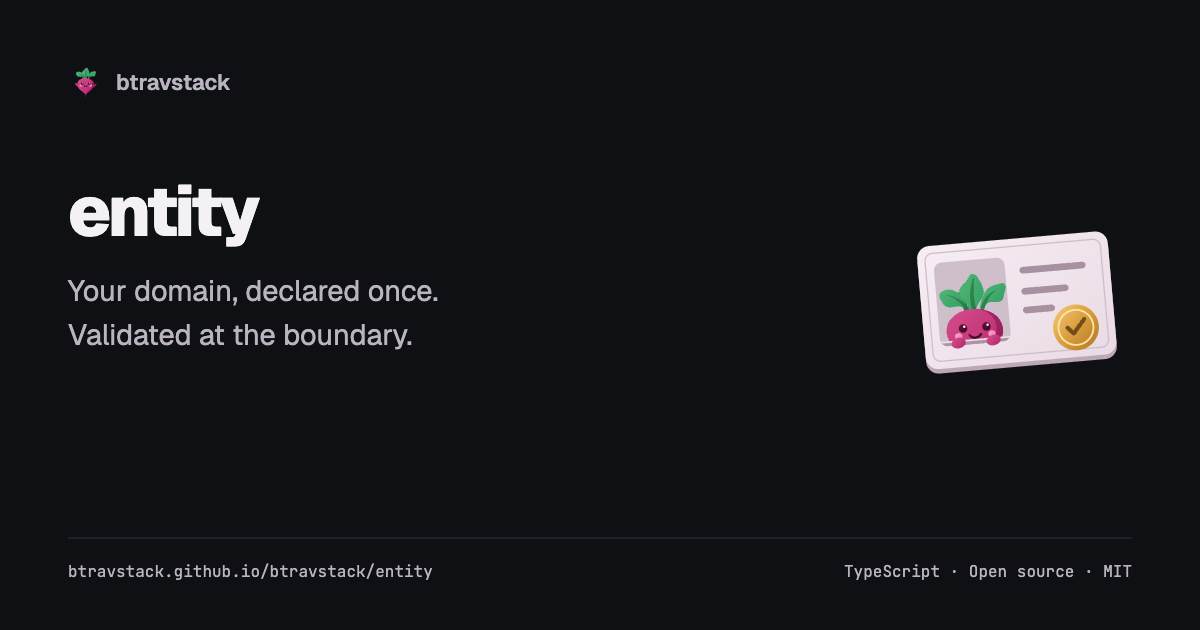
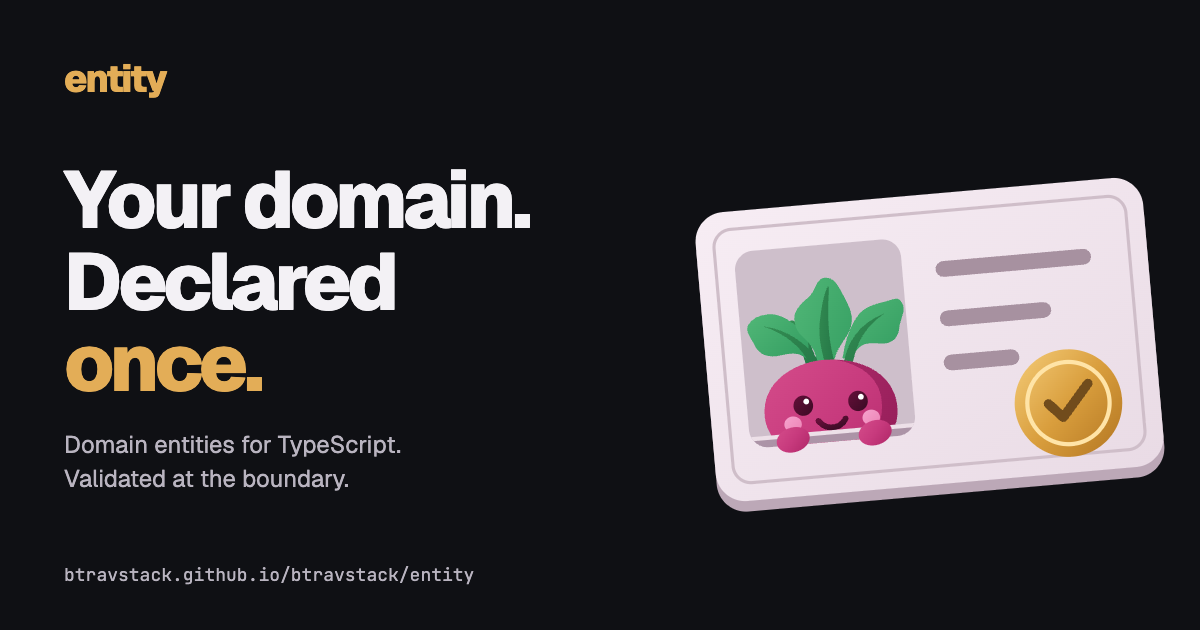
docs: refresh framework and package social previews

diff --git a/docs/branding/social-card.html b/docs/branding/social-card.html
@@ -5,35 +5,75 @@
   <title>btravstack brand card</title>
   <link rel="stylesheet" href="../node_modules/@btravstack/theme/dist/fonts.css" />
   <style>
+    /* Hallmark · component: social card · theme: Beetroot Stack
+     * Static artwork; interactive states do not apply.
+     * Pre-emit critique: P5 H5 E4 S5 R5 V4
+     */
     :root { --paper:#0f1014; --ink:#f3f1f5; --muted:#b9b4c0; --rule:#323039; --accent:#e875ab; --display:'Geist',sans-serif; --mono:'JetBrains Mono',monospace; }
     * { box-sizing:border-box; }
     body { margin:0; width:1200px; height:630px; background:var(--paper); color:var(--ink); font-family:var(--display); }
-    main { position:relative; height:100%; padding:64px 68px; }
-    .brand { display:flex; align-items:center; gap:12px; color:var(--muted); font-size:22px; font-weight:600; }
-    .brand img { width:36px; height:36px; }
-    h1 { max-width:820px; margin:74px 0 20px; font-size:70px; font-weight:800; letter-spacing:-3px; line-height:1.07; }
-    p { max-width:690px; margin:0; font-size:29px; line-height:1.5; color:var(--muted); }
-    .mark { position:absolute; width:230px; height:230px; right:68px; top:177px; }
-    footer { position:absolute; bottom:48px; left:68px; right:68px; border-top:1px solid var(--rule); padding-top:22px; display:flex; justify-content:space-between; font:16px var(--mono); color:var(--muted); }
+    main { position:relative; height:100%; }
+    p { margin:0; color:var(--muted); }
+    .website-card { padding:54px 64px; overflow:hidden; }
+    .website-wordmark { position:relative; z-index:1; font-size:38px; font-weight:800; letter-spacing:-1.8px; }
+    .website-wordmark span { color:var(--accent); }
+    .website-card h1 { position:relative; z-index:1; margin:56px 0 23px; max-width:700px; font-size:88px; font-weight:800; line-height:1.02; letter-spacing:-4.4px; }
+    .website-card h1 span { color:var(--accent); }
+    .website-card p { position:relative; z-index:1; font-size:24px; line-height:1.45; }
+    .website-mascot { position:absolute; width:610px; height:610px; top:10px; right:-48px; }
+    .website-address { position:absolute; left:64px; bottom:44px; font:18px var(--mono); color:var(--muted); }
+    :root { --unthrown:#65c9bd; --entity:#e3ad57; --di:#80aff1; --temporal-contract:#a1aaff; --amqp-contract:#ff944d; --tools:#92bad1; --theme:#e875ab; }
+    .project-card h1 { font-size:80px; letter-spacing:-4px; max-width:650px; }
+    .project-card .website-wordmark { color:var(--project-accent, var(--accent)); }
+    .project-card h1 span { color:var(--project-accent, var(--accent)); }
+    .project-card .project-mascot { width:540px; height:540px; top:50px; right:0; }
+    .project-card p { max-width:650px; }
+    .unthrown { --project-accent:var(--unthrown); }
+    .entity { --project-accent:var(--entity); }
+    .di { --project-accent:var(--di); }
+    .temporal-contract { --project-accent:var(--temporal-contract); }
+    .amqp-contract { --project-accent:var(--amqp-contract); }
+    .tools { --project-accent:var(--tools); }
+    .theme { --project-accent:var(--theme); }
   </style>
-  <main>
-    <div class="brand"><img src="../public/brand-dark.svg" alt="" />btravstack</div>
-    <h1></h1>
-    <p></p>
-    <img class="mark" alt="" />
-    <footer><span class="url"></span><span>TypeScript · Open source · MIT</span></footer>
-  </main>
+  <template id="website-card">
+    <div class="website-wordmark"><span>btrav</span>stack</div>
+    <h1>A backend<br />that fits<br /><span>together.</span></h1>
+    <p>A TypeScript framework.<br />Independent libraries. One coherent stack.</p>
+    <img
+      class="website-mascot"
+      src="../public/logo.png"
+      alt="The smiling beetroot mascot sitting on three teal layers"
+    />
+    <div class="website-address">btravstack.github.io</div>
+  </template>
+  <main></main>
   <script>
     const cards = {
-      framework: ['btravstack', 'Your application, composed.<br>Your process, taken care of.', 'btravstack.github.io/btravstack'],
-      entity: ['entity', 'Your domain, declared once.<br>Validated at the boundary.', 'btravstack.github.io/btravstack/entity'],
+      framework: ['btravstack', 'Your app,<br><span>composed.</span>', 'A TypeScript backend framework.<br>Your process, taken care of.', 'btravstack.github.io/btravstack'],
+      entity: ['entity', 'Your domain.<br>Declared<br><span>once.</span>', 'Domain entities for TypeScript.<br>Validated at the boundary.', 'btravstack.github.io/btravstack/entity'],
+      di: ['di', 'Your wiring.<br>Proven<br><span>before boot.</span>', 'Typed dependency injection.<br>Compose your graph with confidence.', 'btravstack.github.io/btravstack/reference/di'],
     };
     const key = new URLSearchParams(location.search).get('project') || 'framework';
-    const [name, description, url] = cards[key];
-    document.querySelector('h1').textContent = name;
-    document.querySelector('p').innerHTML = description;
-    document.querySelector('.url').textContent = url;
-    document.querySelector('.mark').src = key === 'entity' ? '../public/entity/logo-dark.svg' : '../public/logo-dark.svg';
-    document.querySelector('.mark').alt = `${name} logo`;
+    if (key === 'btravstack') {
+      const main = document.querySelector('main');
+      main.className = 'website-card';
+      main.replaceChildren(document.querySelector('#website-card').content.cloneNode(true));
+    } else {
+      const [name, headline, description, url] = cards[key];
+      const main = document.querySelector('main');
+      main.className = `website-card project-card ${key}`;
+      main.replaceChildren(document.querySelector('#website-card').content.cloneNode(true));
+      document.querySelector('.website-wordmark').textContent = name;
+      document.querySelector('h1').innerHTML = headline;
+      document.querySelector('p').innerHTML = description;
+      document.querySelector('.website-address').textContent = url;
+      const mascot = document.querySelector('.website-mascot');
+      if (key !== 'framework') {
+        mascot.src = key === 'entity' ? '../public/entity/logo-dark.svg' : '../public/di/logo-dark.svg';
+        mascot.classList.add('project-mascot');
+      }
+      mascot.alt = `${name} beetroot mascot`;
+    }
   </script>
 </html>

diff --git a/docs/.vitepress/config.ts b/docs/.vitepress/config.ts
@@ -349,10 +349,20 @@ export default defineConfig({
     const isEntity =
       pageData.relativePath.startsWith("entity/") ||
       pageData.relativePath.startsWith("api/entity/");
-    const image = `${SITE_URL}${isEntity ? "entity/og-entity-btravstack.png" : "og-btravstack.png"}`;
+    const isDi =
+      pageData.relativePath.startsWith("reference/di/") ||
+      pageData.relativePath.startsWith("api/di/");
+    const imagePath = isEntity
+      ? "entity/og-entity-btravstack.png"
+      : isDi
+        ? "di/og-di.png"
+        : "og-btravstack.png";
+    const image = `${SITE_URL}${imagePath}`;
     const imageAlt = isEntity
       ? "entity — Your domain, declared once. Validated at the boundary. Identity card with a smiling beetroot portrait."
-      : "btravstack — Your application, composed. Your process, taken care of. Smiling beetroot mascot on three teal layers.";
+      : isDi
+        ? "di — Your wiring. Proven before boot. A small smiling beetroot inside a syringe."
+        : "btravstack — Your app, composed. Your process, taken care of. Smiling beetroot mascot on three teal layers.";
     pageData.frontmatter.head.push(
       ["meta", { property: "og:image", content: image }],
       ["meta", { property: "og:image:type", content: "image/png" }],

diff --git a/docs/branding/README.md b/docs/branding/README.md
@@ -15,3 +15,8 @@ load logos from the ecosystem website at runtime.
 The integrated entity guide uses the canonical `entity` identity-card SVGs.
 Render `social-card.html?project=entity` at 1200 × 630 for its local preview;
 the card displays `btravstack.github.io/btravstack/entity`.
+
+DI reference and API pages use the canonical leafless beetroot in a syringe.
+Render `social-card.html?project=di` at 1200 × 630 for `../public/di/og-di.png`.
+All three cards use the shared large-mascot layout and short headlines; wait
+for fonts and images before exporting, and review at thumbnail size.

diff --git a/docs/AGENTS.md b/docs/AGENTS.md
@@ -200,3 +200,8 @@ compete with the entity card in social metadata.
 Entity uses the illustrated identity-card mark in `public/entity/logo*.svg`.
 Its preview is rendered from `branding/social-card.html?project=entity`,
 which displays the integrated `/btravstack/entity` documentation address.
+
+DI reference and API pages use `public/di/og-di.png`, rendered from
+`branding/social-card.html?project=di`. Its local syringe mascot is
+`public/di/logo-dark.svg`. Social cards share the large-mascot, short-headline
+composition of the ecosystem website; each keeps its own project accent.
